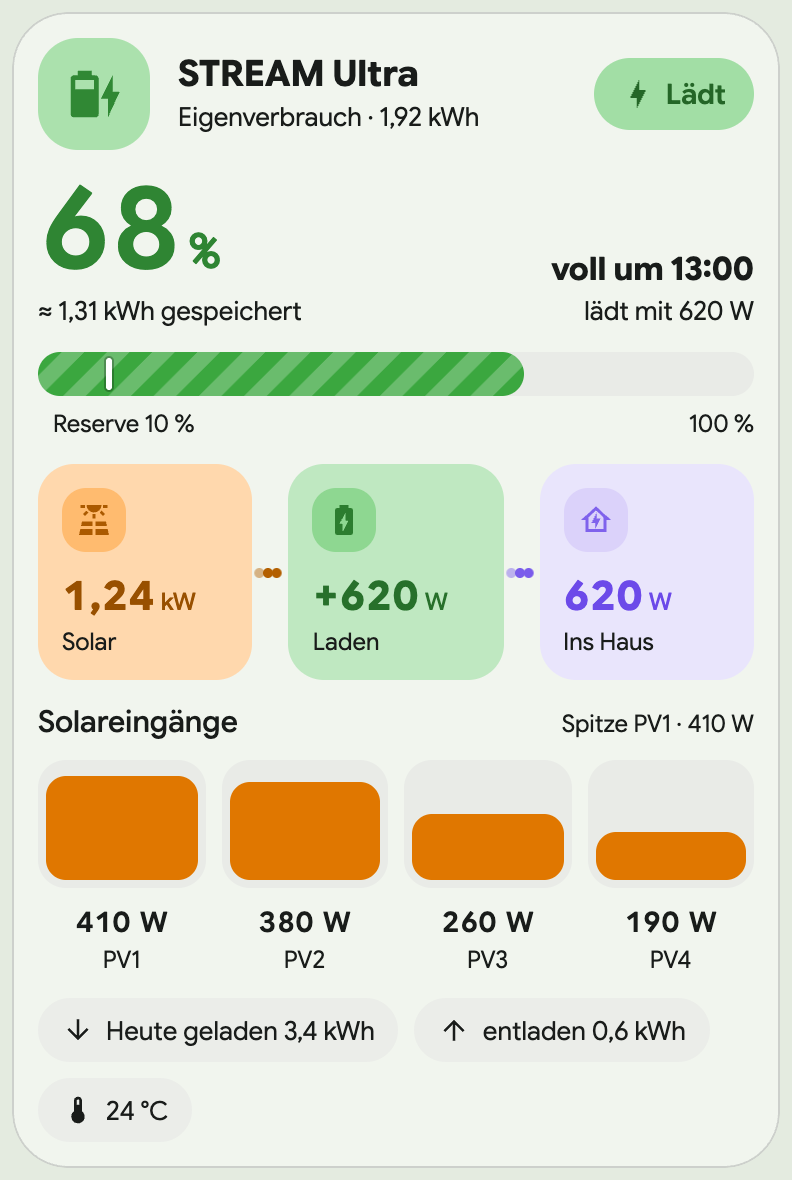
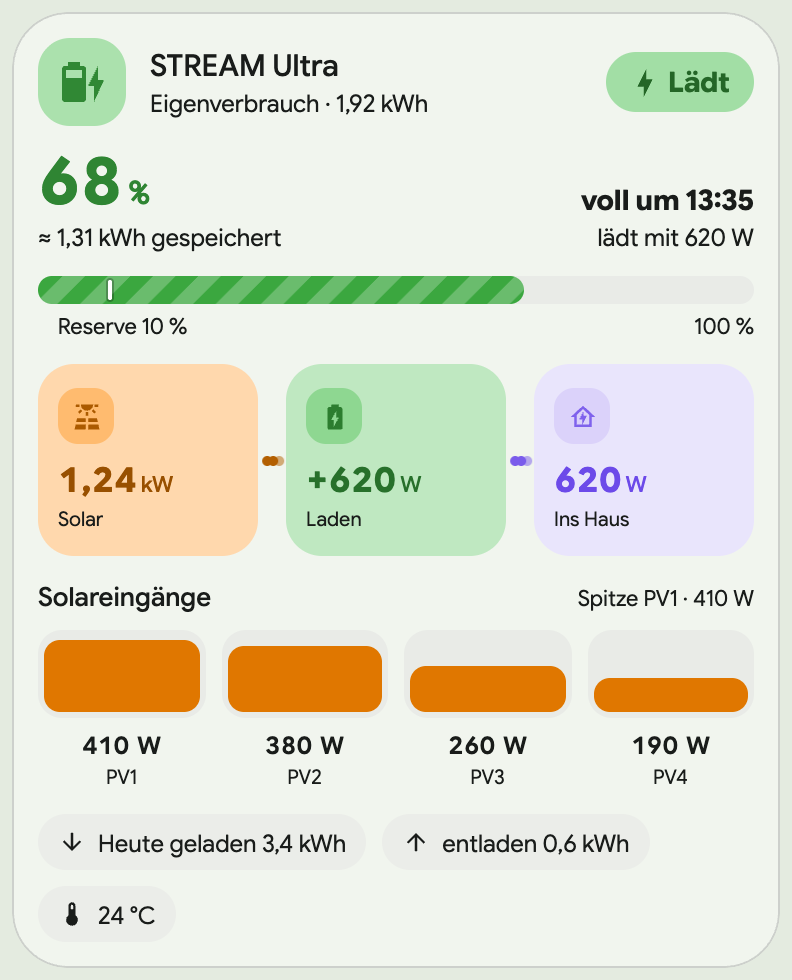
Solar battery card: the suite's header and tile sizes
The first version took its sizes from the design brief and stood out next
to the power summary card. The header is now the standard 44px one, the
state of charge as large as the summary's main value, the flow tiles the
summary's metric tiles, and the bar, columns and chips scaled to match.

diff --git a/src/m3-solar-battery-card.ts b/src/m3-solar-battery-card.ts
@@ -640,7 +640,7 @@ export class M3SolarBatteryCard extends TemplatedCard(LitElement) implements Lov
       .header {
         display: flex;
         align-items: center;
-        gap: 14px;
+        gap: 12px;
         min-width: 0;
       }
 
@@ -654,7 +654,7 @@ export class M3SolarBatteryCard extends TemplatedCard(LitElement) implements Lov
         justify-content: center;
         background: var(--sb-icon-bg);
         color: var(--sb-icon-ink);
-        --mdc-icon-size: 28px;
+        --mdc-icon-size: 24px;
         cursor: pointer;
       }
 
@@ -676,8 +676,8 @@ export class M3SolarBatteryCard extends TemplatedCard(LitElement) implements Lov
       }
 
       .title {
-        font-size: 18px;
-        font-weight: 700;
+        font-size: 15px;
+        font-weight: 500;
         line-height: 1.2;
         color: var(--m3p-text, var(--primary-text-color));
         overflow: hidden;
@@ -686,7 +686,7 @@ export class M3SolarBatteryCard extends TemplatedCard(LitElement) implements Lov
       }
 
       .subtitle {
-        font-size: 13px;
+        font-size: 12px;
         color: var(--m3p-secondary-text, var(--secondary-text-color));
         overflow: hidden;
         text-overflow: ellipsis;
@@ -697,16 +697,16 @@ export class M3SolarBatteryCard extends TemplatedCard(LitElement) implements Lov
         flex-shrink: 0;
         display: inline-flex;
         align-items: center;
-        gap: 6px;
-        height: 36px;
-        padding: 0 14px;
-        border-radius: 18px;
+        gap: 4px;
+        height: 30px;
+        padding: 0 12px;
+        border-radius: 15px;
         background: var(--sb-pill-bg);
         color: var(--sb-pill-ink);
         font-size: 14px;
-        font-weight: 600;
+        font-weight: 700;
         white-space: nowrap;
-        --mdc-icon-size: 16px;
+        --mdc-icon-size: 15px;
         transition: background-color 300ms ${EASING}, color 300ms ${EASING};
       }
 
@@ -724,24 +724,24 @@ export class M3SolarBatteryCard extends TemplatedCard(LitElement) implements Lov
       }
 
       .soc {
-        font-size: 56px;
-        font-weight: 600;
+        font-size: 32px;
+        font-weight: 700;
         line-height: 1;
-        letter-spacing: -1px;
+        letter-spacing: 0;
         font-variant-numeric: tabular-nums;
         color: var(--sb-soc);
       }
 
       .soc-unit {
-        font-size: 24px;
+        font-size: 16px;
         font-weight: 600;
-        margin-left: 4px;
+        margin-left: 3px;
         letter-spacing: 0;
       }
 
       .stored {
         margin-top: 4px;
-        font-size: 13px;
+        font-size: 12px;
         color: var(--m3p-secondary-text, var(--secondary-text-color));
       }
 
@@ -751,14 +751,14 @@ export class M3SolarBatteryCard extends TemplatedCard(LitElement) implements Lov
       }
 
       .forecast-main {
-        font-size: 16px;
+        font-size: 14px;
         font-weight: 700;
         color: var(--m3p-text, var(--primary-text-color));
       }
 
       .forecast-rate {
         margin-top: 2px;
-        font-size: 13px;
+        font-size: 12px;
         color: var(--m3p-secondary-text, var(--secondary-text-color));
       }
 
@@ -797,10 +797,10 @@ export class M3SolarBatteryCard extends TemplatedCard(LitElement) implements Lov
 
       .marker {
         position: absolute;
-        top: 3px;
-        bottom: 3px;
-        width: 3px;
-        margin-left: -1.5px;
+        top: 2px;
+        bottom: 2px;
+        width: 2px;
+        margin-left: -1px;
         border-radius: 2px;
         background: #fff;
         box-shadow: 0 0 0 1px rgba(0, 0, 0, 0.25);
@@ -808,14 +808,14 @@ export class M3SolarBatteryCard extends TemplatedCard(LitElement) implements Lov
 
       .bar-labels {
         position: relative;
-        height: 16px;
-        margin-top: 6px;
+        height: 14px;
+        margin-top: 4px;
       }
 
       .bar-label {
         position: absolute;
         top: 0;
-        font-size: 12px;
+        font-size: 11px;
         white-space: nowrap;
         color: var(--m3p-secondary-text, var(--secondary-text-color));
       }
@@ -830,7 +830,7 @@ export class M3SolarBatteryCard extends TemplatedCard(LitElement) implements Lov
       .tile {
         flex: 1 1 0;
         min-width: 0;
-        padding: 12px;
+        padding: 12px 10px;
         border-radius: ${unsafeCSS(SOLAR_BATTERY_TILE_RADIUS)}px;
         cursor: pointer;
         box-sizing: border-box;
@@ -852,12 +852,12 @@ export class M3SolarBatteryCard extends TemplatedCard(LitElement) implements Lov
         display: flex;
         align-items: center;
         justify-content: center;
-        margin-bottom: 10px;
-        --mdc-icon-size: 18px;
+        margin-bottom: 8px;
+        --mdc-icon-size: 15px;
       }
 
       .tile-value {
-        font-size: 20px;
+        font-size: 17px;
         font-weight: 700;
         font-variant-numeric: tabular-nums;
         white-space: nowrap;
@@ -866,14 +866,14 @@ export class M3SolarBatteryCard extends TemplatedCard(LitElement) implements Lov
       }
 
       .tile-unit {
-        font-size: 12px;
+        font-size: 11px;
         font-weight: 500;
-        margin-left: 3px;
+        margin-left: 2px;
       }
 
       .tile-label {
         margin-top: 2px;
-        font-size: 12px;
+        font-size: 10px;
         color: var(--m3p-secondary-text, var(--secondary-text-color));
         white-space: nowrap;
         overflow: hidden;
@@ -881,7 +881,7 @@ export class M3SolarBatteryCard extends TemplatedCard(LitElement) implements Lov
       }
 
       .link {
-        flex: 0 0 18px;
+        flex: 0 0 14px;
         position: relative;
         display: flex;
         align-items: center;
@@ -932,14 +932,14 @@ export class M3SolarBatteryCard extends TemplatedCard(LitElement) implements Lov
           opacity: 1;
         }
         100% {
-          transform: translateX(13px);
+          transform: translateX(9px);
           opacity: 0;
         }
       }
 
       @keyframes sb-dot-back {
         0% {
-          transform: translateX(13px);
+          transform: translateX(9px);
           opacity: 0;
         }
         20%,
@@ -956,7 +956,7 @@ export class M3SolarBatteryCard extends TemplatedCard(LitElement) implements Lov
       .section {
         display: flex;
         flex-direction: column;
-        gap: 10px;
+        gap: 8px;
       }
 
       .section-head {
@@ -967,13 +967,13 @@ export class M3SolarBatteryCard extends TemplatedCard(LitElement) implements Lov
       }
 
       .section-title {
-        font-size: 15px;
+        font-size: 13px;
         font-weight: 500;
         color: var(--m3p-text, var(--primary-text-color));
       }
 
       .section-side {
-        font-size: 12px;
+        font-size: 11px;
         color: var(--m3p-secondary-text, var(--secondary-text-color));
         white-space: nowrap;
         overflow: hidden;
@@ -1001,25 +1001,25 @@ export class M3SolarBatteryCard extends TemplatedCard(LitElement) implements Lov
         position: relative;
         width: 100%;
         height: ${unsafeCSS(SOLAR_BATTERY_MPPT_HEIGHT)}px;
-        border-radius: 14px;
+        border-radius: 12px;
         background: var(--sb-track);
         overflow: hidden;
-        margin-bottom: 6px;
+        margin-bottom: 4px;
       }
 
       .column-fill {
         position: absolute;
-        left: 4px;
-        right: 4px;
-        bottom: 4px;
-        max-height: calc(100% - 8px);
-        border-radius: 10px;
+        left: 3px;
+        right: 3px;
+        bottom: 3px;
+        max-height: calc(100% - 6px);
+        border-radius: 8px;
         background: var(--sb-solar-fill);
         transition: height 700ms cubic-bezier(0.34, 1.56, 0.64, 1);
       }
 
       .column-value {
-        font-size: 14px;
+        font-size: 12px;
         font-weight: 600;
         font-variant-numeric: tabular-nums;
         color: var(--m3p-text, var(--primary-text-color));
@@ -1027,7 +1027,7 @@ export class M3SolarBatteryCard extends TemplatedCard(LitElement) implements Lov
       }
 
       .column-label {
-        font-size: 12px;
+        font-size: 10px;
         color: var(--m3p-secondary-text, var(--secondary-text-color));
         white-space: nowrap;
         overflow: hidden;
@@ -1051,7 +1051,7 @@ export class M3SolarBatteryCard extends TemplatedCard(LitElement) implements Lov
       }
 
       .extra-name {
-        font-size: 13px;
+        font-size: 12px;
         color: var(--m3p-text, var(--primary-text-color));
         white-space: nowrap;
         overflow: hidden;
@@ -1075,7 +1075,7 @@ export class M3SolarBatteryCard extends TemplatedCard(LitElement) implements Lov
       }
 
       .extra-value {
-        font-size: 13px;
+        font-size: 12px;
         font-weight: 600;
         font-variant-numeric: tabular-nums;
         color: var(--m3p-text, var(--primary-text-color));
@@ -1093,14 +1093,14 @@ export class M3SolarBatteryCard extends TemplatedCard(LitElement) implements Lov
         display: inline-flex;
         align-items: center;
         gap: 6px;
-        height: 32px;
-        padding: 0 12px;
-        border-radius: 16px;
+        height: 28px;
+        padding: 0 10px;
+        border-radius: 14px;
         background: var(--sb-chip-bg);
         color: var(--m3p-text, var(--primary-text-color));
-        font-size: 13px;
+        font-size: 12px;
         white-space: nowrap;
-        --mdc-icon-size: 16px;
+        --mdc-icon-size: 14px;
         transition: border-radius 300ms ${EASING};
       }
 

diff --git a/src/const.ts b/src/const.ts
@@ -3246,9 +3246,9 @@ export const MULTI_GRAPH_MOTION_MS = 300;
 
 // ---- solar battery card -----------------------------------------------------
 export const DEFAULT_SOLAR_BATTERY_RADIUS = RADIUS.card;
-/** Hero header, as the alarm and weather cards: a 56px squircle. */
-export const SOLAR_BATTERY_HEADER_ICON = 56;
-export const SOLAR_BATTERY_HEADER_ICON_RADIUS = RADIUS.squircle56;
+/** The suite's standard header: a 44px squircle, so it stands level with its neighbours. */
+export const SOLAR_BATTERY_HEADER_ICON = 44;
+export const SOLAR_BATTERY_HEADER_ICON_RADIUS = RADIUS.squircle44;
 /** The same colours the power summary and energy flow cards use. */
 export const DEFAULT_SOLAR_BATTERY_SOLAR_COLOR = PALETTE.solar;
 export const DEFAULT_SOLAR_BATTERY_BATTERY_COLOR = PALETTE.ok;
@@ -3263,9 +3263,9 @@ export const SOLAR_BATTERY_TILE_TINT = 14;
 export const SOLAR_BATTERY_TILE_ICON_TINT = 24;
 export const SOLAR_BATTERY_TILE_RADIUS = RADIUS.row;
 export const SOLAR_BATTERY_TILE_RADIUS_ACTIVE = RADIUS.rowActive;
-export const SOLAR_BATTERY_TILE_ICON = 32;
-export const SOLAR_BATTERY_TILE_ICON_RADIUS = RADIUS.squircle32;
-export const SOLAR_BATTERY_BAR_HEIGHT = 22;
-export const SOLAR_BATTERY_MPPT_HEIGHT = 64;
+export const SOLAR_BATTERY_TILE_ICON = SUMMARY_METRIC_ICON_SIZE;
+export const SOLAR_BATTERY_TILE_ICON_RADIUS = SUMMARY_METRIC_ICON_RADIUS;
+export const SOLAR_BATTERY_BAR_HEIGHT = 14;
+export const SOLAR_BATTERY_MPPT_HEIGHT = 44;
 export const SOLAR_BATTERY_FORECAST_STEP_MIN = 5;
 export const SOLAR_BATTERY_FORECAST_MAX_H = 24;
